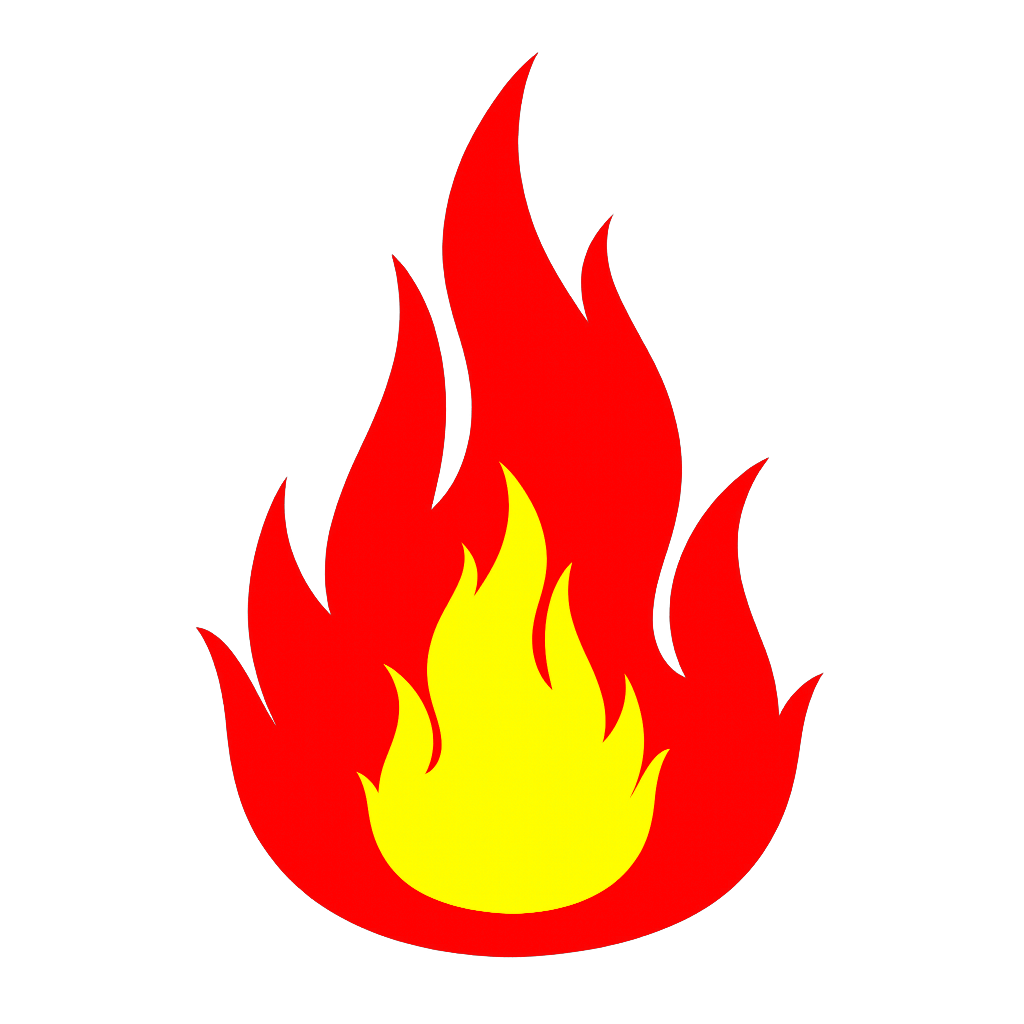
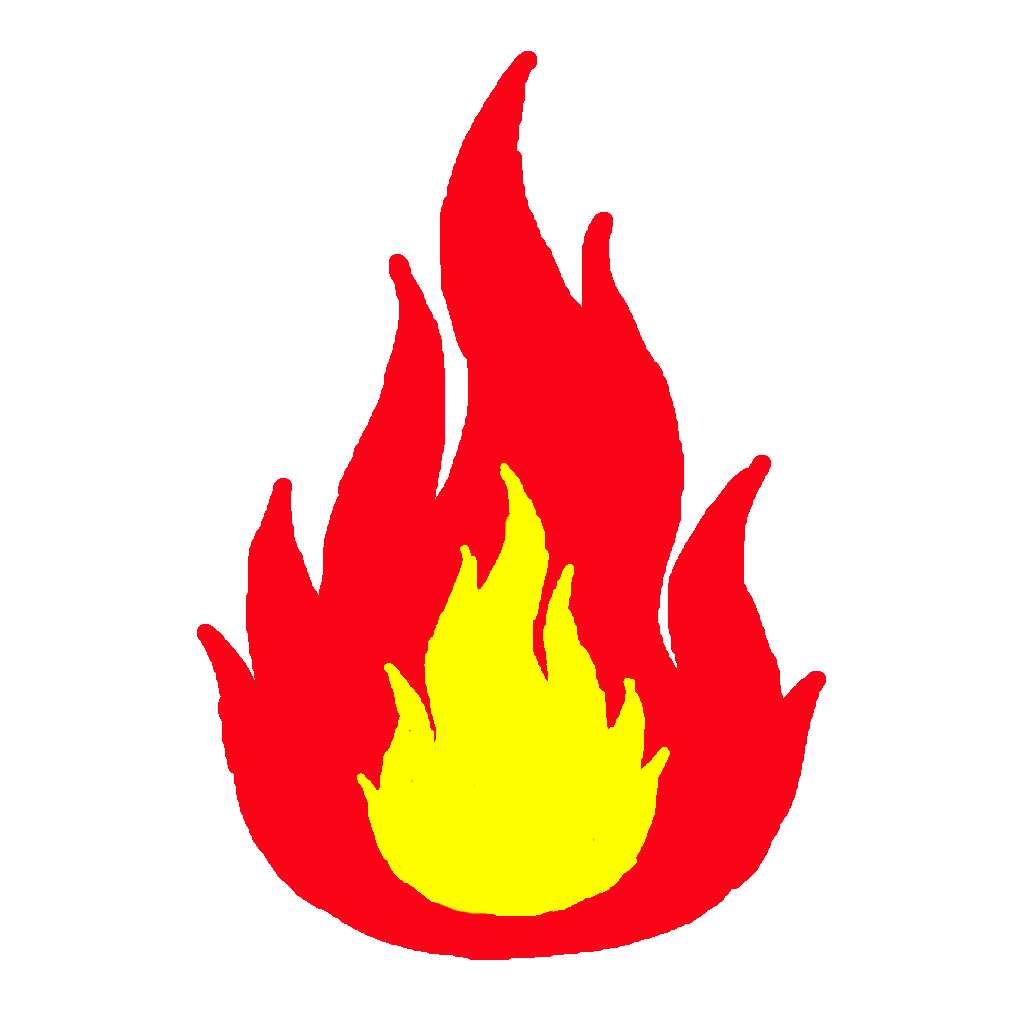
Getting everything in line with the new beta patch and preparing for the formal Workshop launch.

diff --git a/TheWildfireCode/Cards/Rare/AshStrider.cs b/TheWildfireCode/Cards/Rare/AshStrider.cs
@@ -15,7 +15,7 @@ public class AshStrider() : TheWildfireCard(3,
     CardType.Skill, CardRarity.Rare,
     TargetType.AllEnemies)
 {
-    protected override IEnumerable<DynamicVar> CanonicalVars => [new DamageVar(5, ValueProp.Move | ValueProp.Unblockable | ValueProp.Unpowered)];
+    protected override IEnumerable<DynamicVar> CanonicalVars => [new DamageVar(6, ValueProp.Move | ValueProp.Unblockable | ValueProp.Unpowered)];
     public override IEnumerable<CardKeyword> CanonicalKeywords => [CardKeyword.Exhaust];
     protected override IEnumerable<IHoverTip> ExtraHoverTips =>
         [HoverTipFactory.FromPower<WeakPower>()];
@@ -26,17 +26,14 @@ public class AshStrider() : TheWildfireCard(3,
     {
         if (CombatState == null)
             return;
-        for (int i = 1; i > 0; i--)
+        CardSelectorPrefs prefs = new CardSelectorPrefs(SelectionScreenPrompt, 0, 999999999);
+        List<CardModel> list = (await CardSelectCmd.FromHand(choiceContext, Owner, prefs, null, this)).ToList();
+        int loops = list.Count + 1;
+        for (int i = loops; i > 0; i--)
         {
             await CreatureCmd.Damage(choiceContext, CombatState.HittableEnemies, DynamicVars.Damage, Owner.Creature);
             await PowerCmd.Apply<WeakPower>(choiceContext, CombatState.HittableEnemies, 1, Owner.Creature, this);
-            CardSelectorPrefs prefs = new CardSelectorPrefs(CardSelectorPrefs.ExhaustSelectionPrompt, 0, 1);
-            CardModel? card = (await CardSelectCmd.FromHand(choiceContext, Owner, prefs, null, this)).FirstOrDefault();
-            if (card != null)
-            {
-                await CardCmd.Exhaust(choiceContext, card);
-                i++;
-            }
+
         }
     }
 

diff --git a/TheWildfireCode/Cards/Multiplayer/CombatFlexibility.cs b/TheWildfireCode/Cards/Multiplayer/CombatFlexibility.cs
@@ -1,0 +1,38 @@
+using BaseLib.Utils;
+using MegaCrit.Sts2.Core.Commands;
+using MegaCrit.Sts2.Core.Entities.Cards;
+using MegaCrit.Sts2.Core.GameActions.Multiplayer;
+using MegaCrit.Sts2.Core.HoverTips;
+using MegaCrit.Sts2.Core.Localization.DynamicVars;
+using MegaCrit.Sts2.Core.Models.Powers;
+using TheWildfire.TheWildfireCode.Cards;
+using TheWildfire.TheWildfireCode.Powers;
+
+namespace TheWildfire.TheWildfireCode.Cards.Multiplayer;
+
+public class CombatFlexibility() : TheWildfireCard(2,
+    CardType.Power, CardRarity.Rare,
+    TargetType.Self)
+{
+    protected override IEnumerable<DynamicVar> CanonicalVars => [new PowerVar<CombatFlexibilityPower>(1)];
+    protected override IEnumerable<IHoverTip> ExtraHoverTips =>
+        [HoverTipFactory.FromPower<StretchPower>()];
+    
+    public override CardMultiplayerConstraint MultiplayerConstraint
+    {
+        get => CardMultiplayerConstraint.MultiplayerOnly;
+    }
+
+    protected override async Task OnPlay(
+        PlayerChoiceContext choiceContext,
+        CardPlay play)
+    {
+        await CreatureCmd.TriggerAnim(this.Owner.Creature, "Cast", this.Owner.Character.CastAnimDelay);
+        await CommonActions.ApplySelf<CombatFlexibilityPower>(choiceContext, this);
+    }
+
+    protected override void OnUpgrade()
+    {
+        EnergyCost.UpgradeBy(-1);
+    }
+}

diff --git a/TheWildfireCode/Powers/CombatFlexibilityPower.cs b/TheWildfireCode/Powers/CombatFlexibilityPower.cs
@@ -1,0 +1,26 @@
+using MegaCrit.Sts2.Core.Commands;
+using MegaCrit.Sts2.Core.Entities.Creatures;
+using MegaCrit.Sts2.Core.Entities.Powers;
+using MegaCrit.Sts2.Core.GameActions.Multiplayer;
+using MegaCrit.Sts2.Core.HoverTips;
+using MegaCrit.Sts2.Core.Models;
+using MegaCrit.Sts2.Core.Models.Powers;
+using MegaCrit.Sts2.Core.ValueProps;
+
+namespace TheWildfire.TheWildfireCode.Powers;
+
+public class CombatFlexibilityPower : TheWildfirePower
+{
+    public override PowerType Type => PowerType.Buff;
+    public override PowerStackType StackType => PowerStackType.Counter;
+    protected override IEnumerable<IHoverTip> ExtraHoverTips =>
+        [HoverTipFactory.FromPower<StretchPower>()];
+
+    public override async Task AfterBlockGained(Creature creature, decimal amount, ValueProp props, CardModel? cardSource)
+    {
+        if (creature != Owner && CombatState.PlayerCreatures.Contains(creature))
+        {
+            await PowerCmd.Apply<StretchPower>(new ThrowingPlayerChoiceContext(), Owner, Amount, Owner, null);
+        }
+    }
+}

diff --git a/TheWildfireCode/Cards/Uncommon/TwoTalons.cs b/TheWildfireCode/Cards/Uncommon/TwoTalons.cs
@@ -14,7 +14,7 @@ public class TwoTalons() : TheWildfireCard(1,
     CardType.Attack, CardRarity.Uncommon,
     TargetType.AnyEnemy)
 {
-    protected override IEnumerable<DynamicVar> CanonicalVars => [new DamageVar(3, ValueProp.Move)];
+    protected override IEnumerable<DynamicVar> CanonicalVars => [new DamageVar(3, ValueProp.Move), new HitCountVar(2)];
     public override IEnumerable<CardKeyword> CanonicalKeywords => [WildfireKeywords.AttackFlow];
 
     protected override bool ShouldGlowGoldInternal => OverdriveGlowPatch.CheckFlow(this, CardType.Attack);
@@ -23,7 +23,7 @@ public class TwoTalons() : TheWildfireCard(1,
         PlayerChoiceContext choiceContext,
         CardPlay play)
     {
-        int hits = 2;
+        int hits = DynamicVars.HitCount.IntValue;
         if (FlowSingleton.WillTriggerFlow(this))
             hits += 2;
         await CommonActions.CardAttack(this, play, hits, vfx: "vfx/vfx_attack_slash").Execute(choiceContext);

diff --git a/TheWildfireCode/Cards/Common/FlamesBlessing.cs b/TheWildfireCode/Cards/Common/FlamesBlessing.cs
@@ -9,11 +9,11 @@ using TheWildfire.TheWildfireCode.Powers;
 
 namespace TheWildfire.TheWildfireCode.Cards.Common;
 
-public class FlamesBlessing() : TheWildfireCard(1,
+public class FlamesBlessing() : TheWildfireCard(0,
     CardType.Skill, CardRarity.Common,
     TargetType.Self)
 {
-    protected override IEnumerable<DynamicVar> CanonicalVars => [new PowerVar<RagingFirePower>(4)];
+    protected override IEnumerable<DynamicVar> CanonicalVars => [new PowerVar<RagingFirePower>(3)];
     public override IEnumerable<CardKeyword> CanonicalKeywords => [WildfireKeywords.AttackFlow];
     protected override IEnumerable<IHoverTip> ExtraHoverTips =>
         [HoverTipFactory.FromPower<RagingFirePower>()];
@@ -28,6 +28,6 @@ public class FlamesBlessing() : TheWildfireCard(1,
 
     protected override void OnUpgrade()
     {
-        EnergyCost.UpgradeBy(-1);
+        DynamicVars["RagingFirePower"].UpgradeValueBy(2);
     }
 }

diff --git a/TheWildfireCode/Cards/Rare/WildfireUnleashed.cs b/TheWildfireCode/Cards/Rare/WildfireUnleashed.cs
@@ -26,7 +26,7 @@ public class WildfireUnleashed() : TheWildfireCard(0,
     CardType.Attack, CardRarity.Rare,
     TargetType.AnyEnemy)
 {
-    protected override IEnumerable<DynamicVar> CanonicalVars => [new DamageVar(45, ValueProp.Move)];
+    protected override IEnumerable<DynamicVar> CanonicalVars => [new DamageVar(40, ValueProp.Move)];
     public override IEnumerable<CardKeyword> CanonicalKeywords => [CardKeyword.Exhaust];
     protected override IEnumerable<IHoverTip> ExtraHoverTips =>
         [HoverTipFactory.Static(WildfireKeywords.FlowStatic), HoverTipFactory.Static(WildfireKeywords.Rekindle)];
@@ -79,6 +79,6 @@ public class WildfireUnleashed() : TheWildfireCard(0,
 
     protected override void OnUpgrade()
     {
-        DynamicVars.Damage.UpgradeValueBy(15);
+        DynamicVars.Damage.UpgradeValueBy(12);
     }
 }

diff --git a/TheWildfireCode/Cards/Common/FlashFire.cs b/TheWildfireCode/Cards/Common/FlashFire.cs
@@ -14,7 +14,7 @@ public class FlashFire() : TheWildfireCard(1,
     CardType.Skill, CardRarity.Common,
     TargetType.Self)
 {
-    protected override IEnumerable<DynamicVar> CanonicalVars => [new BlockVar(10, ValueProp.Move), new CardsVar(1), new AfterburnVar(2)];
+    protected override IEnumerable<DynamicVar> CanonicalVars => [new BlockVar(11, ValueProp.Move), new CardsVar(1), new AfterburnVar(3)];
     public override bool GainsBlock => true;
     protected override IEnumerable<IHoverTip> ExtraHoverTips =>
         [HoverTipFactory.FromCard<Afterburn>()];
@@ -37,6 +37,7 @@ public class FlashFire() : TheWildfireCard(1,
 
     protected override void OnUpgrade()
     {
-        DynamicVars.Block.UpgradeValueBy(3);
+        DynamicVars.Block.UpgradeValueBy(1);
+        DynamicVars.Cards.UpgradeValueBy(1);
     }
 }

diff --git a/TheWildfireCode/Cards/Rare/UnrelentingHeatWave.cs b/TheWildfireCode/Cards/Rare/UnrelentingHeatWave.cs
@@ -23,9 +23,9 @@ public class UnrelentingHeatWave() : TheWildfireCard(1,
         PlayerChoiceContext choiceContext,
         CardPlay play)
     {
-        CardSelectorPrefs prefs = new CardSelectorPrefs(CardSelectorPrefs.ExhaustSelectionPrompt, 0, 2);
-        var cards = (await CardSelectCmd.FromHand(choiceContext, Owner, prefs, null, this));
-        foreach (CardModel card in cards)
+        CardSelectorPrefs prefs = new CardSelectorPrefs(CardSelectorPrefs.ExhaustSelectionPrompt, 1);
+        CardModel? card = (await CardSelectCmd.FromHand(choiceContext, Owner, prefs, null, this)).FirstOrDefault();
+        if (card != null)
             await CardCmd.Exhaust(choiceContext, card);
         CardPile? draw = CardPile.Get(PileType.Draw, Owner);
         CardPile? exhaust = CardPile.Get(PileType.Exhaust, Owner);

diff --git a/TheWildfireCode/Cards/Uncommon/SalamanderCharge.cs b/TheWildfireCode/Cards/Uncommon/SalamanderCharge.cs
@@ -15,7 +15,7 @@ public class SalamanderCharge() : TheWildfireCard(1,
     CardType.Attack, CardRarity.Uncommon,
     TargetType.RandomEnemy)
 {
-    protected override IEnumerable<DynamicVar> CanonicalVars => [new ExertVar(9), new DynamicVar("hits", 3),
+    protected override IEnumerable<DynamicVar> CanonicalVars => [new ExertVar(6), new HitCountVar("hits", 3),
         new CalculationBaseVar(0),
         new ExtraDamageVar(1),
         new CalculatedDamageVar(ValueProp.Move).WithMultiplier(Calc)];
@@ -46,6 +46,6 @@ public class SalamanderCharge() : TheWildfireCard(1,
 
     protected override void OnUpgrade()
     {
-        DynamicVars["Exert"].UpgradeValueBy(2);
+        DynamicVars["Exert"].UpgradeValueBy(3);
     }
 }

diff --git a/TheWildfireCode/Cards/Common/FierySerpent.cs b/TheWildfireCode/Cards/Common/FierySerpent.cs
@@ -21,7 +21,7 @@ public class FierySerpent() : TheWildfireCard(1,
     CardType.Attack, CardRarity.Common,
     TargetType.AnyEnemy)
 {
-    protected override IEnumerable<DynamicVar> CanonicalVars => [new DamageVar(22, ValueProp.Move), new ExertVar(6)];
+    protected override IEnumerable<DynamicVar> CanonicalVars => [new DamageVar(21, ValueProp.Move), new ExertVar(7)];
     protected override HashSet<CardTag> CanonicalTags
     {
         get => new HashSet<CardTag>() { WildfireKeywords.ExertTag };
@@ -70,6 +70,6 @@ public class FierySerpent() : TheWildfireCard(1,
 
     protected override void OnUpgrade()
     {
-        DynamicVars.Damage.UpgradeValueBy(4);
+        DynamicVars.Damage.UpgradeValueBy(5);
     }
 }

diff --git a/TheWildfireCode/Cards/Multiplayer/Overflow.cs b/TheWildfireCode/Cards/Multiplayer/Overflow.cs
@@ -12,7 +12,7 @@ public class Overflow() : TheWildfireCard(0,
     CardType.Skill, CardRarity.Rare,
     TargetType.AllAllies)
 {
-    protected override IEnumerable<DynamicVar> CanonicalVars => [new CardsVar(1), new EnergyVar(1)];
+    protected override IEnumerable<DynamicVar> CanonicalVars => [new CardsVar(2), new EnergyVar(1)];
     
     public override IEnumerable<CardKeyword> CanonicalKeywords => [WildfireKeywords.AttackFlow,WildfireKeywords.PowerFlow,CardKeyword.Exhaust];
     
@@ -43,6 +43,6 @@ public class Overflow() : TheWildfireCard(0,
 
     protected override void OnUpgrade()
     {
-        DynamicVars.Cards.UpgradeValueBy(1);
+        DynamicVars.Energy.UpgradeValueBy(1);
     }
 }

diff --git a/TheWildfireCode/Cards/Uncommon/FlameConsuming.cs b/TheWildfireCode/Cards/Uncommon/FlameConsuming.cs
@@ -17,7 +17,7 @@ public class FlameConsuming() : TheWildfireCard(0,
     CardType.Skill, CardRarity.Uncommon,
     TargetType.Self)
 {
-    protected override IEnumerable<DynamicVar> CanonicalVars => [new IgniteVar(3), new PowerVar<RagingFirePower>(4), new AfterburnVar(3)];
+    protected override IEnumerable<DynamicVar> CanonicalVars => [new IgniteVar(2), new PowerVar<RagingFirePower>(4), new AfterburnVar(3)];
     protected override IEnumerable<IHoverTip> ExtraHoverTips =>
         [HoverTipFactory.FromPower<RagingFirePower>(), HoverTipFactory.FromCard<Afterburn>(), HoverTipFactory.Static(WildfireKeywords.Scorch)];
     protected override HashSet<CardTag> CanonicalTags
